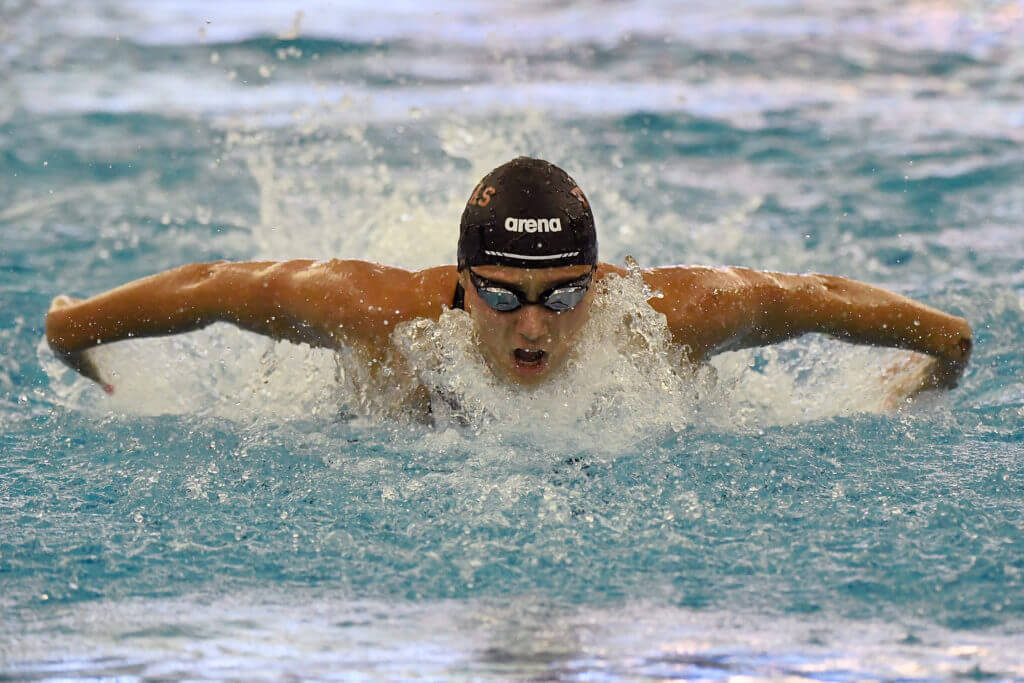
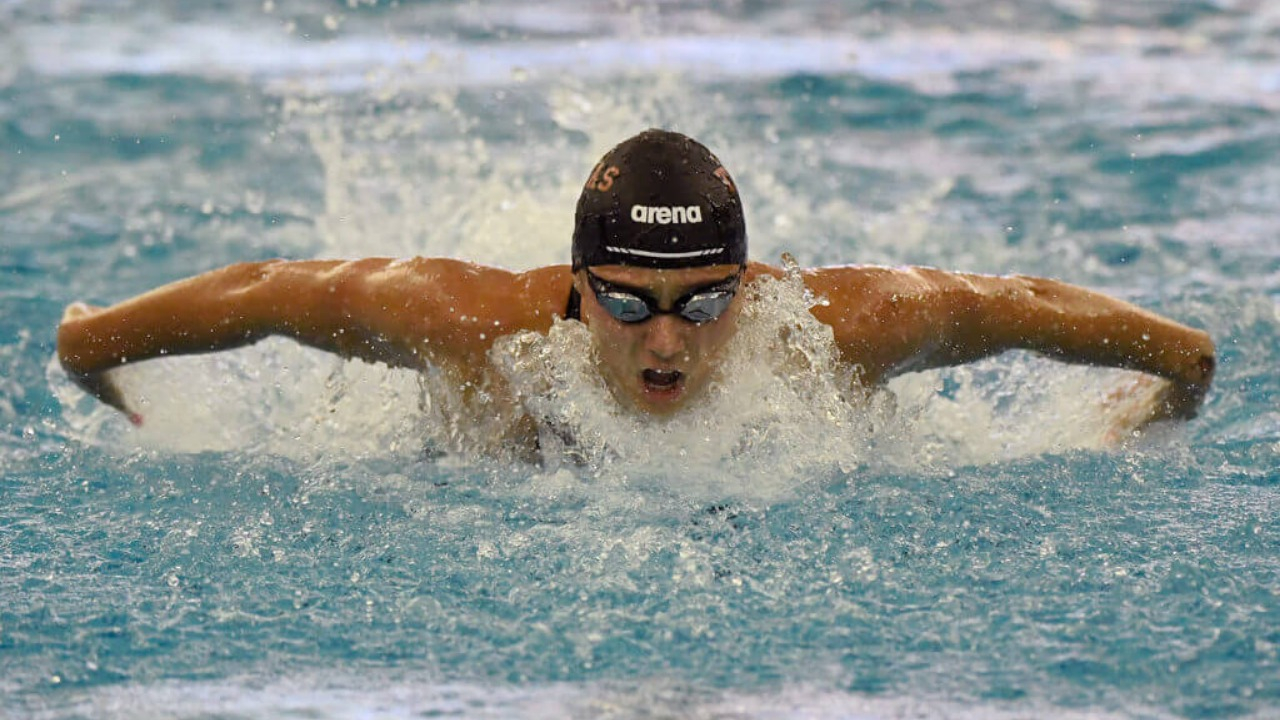
minor changes

diff --git a/swimming.css b/swimming.css
@@ -257,24 +257,26 @@ label, input {
 
 #img-gallery {
     position: relative;
+    --img-width: 45%;
 }
 
 
 #img-gallery img {
-    width: 40%;
-    height: 300px;
+    width: var(--img-width);
     display: block;
     margin-left: auto;
     margin-right: auto;
+    border: 3px solid black;
+    padding: 3%;
 }
 
-#img-gallery img:not(img:nth-of-type(2)) {
+#img-gallery img:not(img:nth-of-type(2)) { /* hide all the images, except the second one */
     display: none;
 }
 
 #scroll-left, #scroll-right {
     border: 1px solid black;
-    font-size: 25px;
+    font-size: 30px;
     position: absolute;
     top: calc(50% - 25px);
     background-color: black;
@@ -282,11 +284,16 @@ label, input {
 }
 
 #scroll-left {
-    left: 30%;
+    left: calc((100% - var(--img-width)) / 2);
 }
 
 #scroll-right {
-    right: 30%;
+    right: calc((100% - var(--img-width)) / 2);
+}
+
+#scroll-left:active, #scroll-right:active {
+    color: black;
+    background-color: white;
 }
 
 

diff --git a/swimming.html b/swimming.html
@@ -42,8 +42,7 @@
 
                     Swimming each stroke requires a set of specific techniques; in competition, there are distinct regulations concerning the acceptable form for each individual stroke. There are also regulations on what types of swimsuits, caps, jewelry and injury tape that are allowed at competitions. Although it is possible for competitive swimmers to incur several injuries from the sport, such as tendinitis in the shoulders or knees, there are also multiple health benefits associated with the sport.
                 </p>
-                <div id="img-gallery">
-                    <div id="images">
+                <div id="img-gallery">                      
                     <img src="pic1.jpg" alt="">
                     <img src="pic2.jpg" alt="">
                     <img src="pic3.jpg" alt="">

diff --git a/swimming.js b/swimming.js
@@ -109,8 +109,9 @@ $(function() {
         window.scrollTo(0, document.body.scrollHeight); // scroll to the bottom of the page
     }
 
+
     let images = [];
-    $("#img-gallery img").each(function(index, object) {
+    $("#img-gallery img").each(function(index, object) { // fill array with images
         images[index] = object;
     })
 
